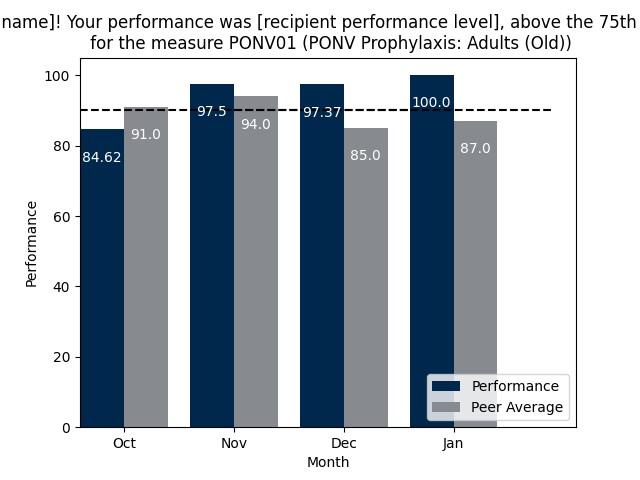
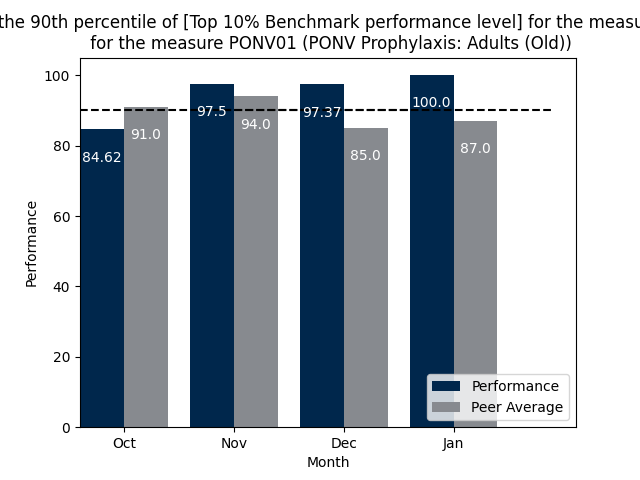
correcting input_message, made small changes to pictoralist

Changed region(s): [[0.0, 0.0312, 1.0, 0.0625]]

diff --git a/pictoralist/pictoralist.py b/pictoralist/pictoralist.py
@@ -162,9 +162,15 @@ class Pictoralist():
         # message["recipient_performance_level"]
         #print(type(self.performance_Data))
         self.Performance_Data=self.Performance_Data[self.Performance_Data['measure'] ==  self.measure_name]
-        print(self.Performance_Data)
+        #print(self.Performance_Data)
         staff_number= self.Performance_Data['staff_number'].iloc[0]
         array = self.performance_Data
+        ds=pd.DataFrame(self.performance_Data)
+        # print(ds)
+        ds.columns=ds. iloc[0]
+        
+        self.performance_Data=ds[ds['measure'] ==  self.measure_name]
+        self.performance_Data=self.performance_Data.values.tolist()
         ar = numpy.array(self.performance_Data)
         df2 = json.dumps(self.performance_Data)
         df3= ','.join(str(x) for x in ar)
